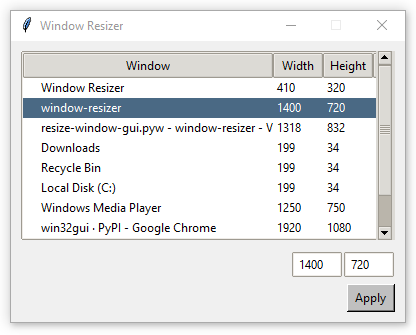
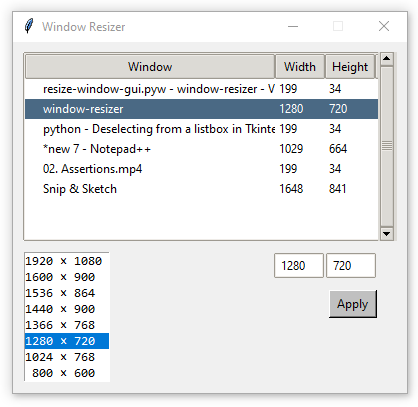
common sizes & ui fixes

diff --git a/funcs.py b/funcs.py
@@ -152,14 +152,28 @@ def validate_entry_value(entry, min=-math.inf, max=math.inf):
 
 #region ==================== SIZE
 
-def reset_size_inputs(
+def set_size_inputs(
+    width_input,
+    height_input,
+    width_value = "",
+    height_value = "",
+):
+    width_input.delete(0, tkinter.END)
+    height_input.delete(0, tkinter.END)
+    if width_value != "":
+        width_input.insert(0, width_value)
+    if height_value != "":
+        height_input.insert(0, height_value)
+
+def handle_apply_button_state(
+    treeview,
     width_input,
     height_input,
     apply_button,
 ):
-    width_input.delete(0, tkinter.END)
-    height_input.delete(0, tkinter.END)
-    apply_button["state"] = "disabled"
-
+    state = "disabled"
+    if get_selected_treeview_item(treeview) is not None and width_input.get() != "" and height_input.get() != "":
+        state = "normal"
+    apply_button["state"] = state
 
 #endregion

diff --git a/README.md b/README.md
@@ -13,4 +13,5 @@ Resize a window to specific dimensions.
 - [x] Switch to GUI; list windows along with their current position and size. (2022-02-02)
     - [x] Auto refresh every second. (2022-02-08)
 - [x] Add inputs for size (and a button to apply). (2022-02-03/04)
-- [ ] Add common sizes for size inputs.
+- [x] Add common sizes for size inputs. (2022-02-09)
+- [ ] Add custom sizes (from text file) for size inputs.
